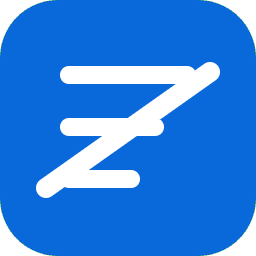
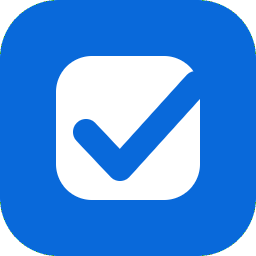
A checked box for the mark (#144)
The old mark (three rows and a diagonal strike) read as a globe, which
says network. The new one is the app's own checked state — 勾上的就是
会被删的 — with the check knocked out of a solid white box, its tail
running past the box and vanishing into the plate. The SVG, the SDF
generator and the in-app mark draw the same geometry.

Changed region(s): [[0.125, 0.2188, 0.875, 0.7812]]

diff --git a/assets/genicon/main.go b/assets/genicon/main.go
@@ -18,8 +18,9 @@ import (
 	"runtime"
 )
 
-// Geometry in 256-unit icon space: the accent plate, three ledger rows, and
-// the strike that crosses them out.
+// Geometry in 256-unit icon space: the accent plate, the checked box, and
+// the check knocked out of it — its tail runs past the box and vanishes
+// into the plate.
 const (
 	plate        = 256.0
 	cornerRadius = 58.0
@@ -29,12 +30,11 @@ var (
 	accent = color.RGBA{0x09, 0x69, 0xDA, 0xFF} // Primer accent.emphasis
 	mark   = color.RGBA{0xFF, 0xFF, 0xFF, 0xFF}
 
-	rows = []rect{
-		{x: 60, y: 66, w: 136, h: 18, r: 9},
-		{x: 60, y: 118, w: 104, h: 18, r: 9},
-		{x: 60, y: 170, w: 80, h: 18, r: 9},
+	checkPlate = rect{x: 56, y: 56, w: 144, h: 144, r: 36}
+	check      = []seg{
+		{x1: 86, y1: 132, x2: 120, y2: 168, w: 26},
+		{x1: 120, y1: 168, x2: 196, y2: 84, w: 26},
 	}
-	strike = seg{x1: 46, y1: 188, x2: 210, y2: 72, w: 20}
 )
 
 type rect struct{ x, y, w, h, r float64 }
@@ -58,14 +58,13 @@ func sdSeg(px, py float64, s seg) float64 {
 	return math.Hypot(wx-t*vx, wy-t*vy) - s.w/2
 }
 
-// markDist is the signed distance to the whole white mark; the union of the
-// rows and the strike.
-func markDist(px, py float64) float64 {
+// checkDist is the signed distance to the check knocked out of the box.
+func checkDist(px, py float64) float64 {
 	d := math.Inf(1)
-	for _, r := range rows {
-		d = min(d, sdRoundRect(px, py, r))
+	for _, s := range check {
+		d = min(d, sdSeg(px, py, s))
 	}
-	return min(d, sdSeg(px, py, strike))
+	return d
 }
 
 // cover turns a signed distance into anti-aliased coverage over one pixel.
@@ -84,8 +83,11 @@ func draw(size int) image.Image {
 			if a := cover(plateD); a > 0 {
 				c = blend(c, accent, a)
 			}
-			if a := cover(markDist(x, y)); a > 0 {
+			if a := cover(sdRoundRect(x, y, checkPlate)); a > 0 {
 				c = blend(c, mark, a)
+			}
+			if a := cover(checkDist(x, y)); a > 0 {
+				c = blend(c, accent, a)
 			}
 			img.Set(px, py, c)
 		}

diff --git a/internal/app/app.go b/internal/app/app.go
@@ -678,14 +678,15 @@ func (a *App) mark(c *ui.Context, size float32) {
 	ui.Box(c).Size(size, size).Shrink(0).Draw(func(pt *ui.Painter, r ui.Rect) {
 		s := size / 256
 		pt.Fill(r, p.Accent, 58*s)
-		for _, row := range [][4]float32{{60, 66, 136, 18}, {60, 118, 104, 18}, {60, 170, 80, 18}} {
-			pt.Fill(ui.Rect{X: r.X + row[0]*s, Y: r.Y + row[1]*s, W: row[2] * s, H: row[3] * s},
-				p.OnAccent, row[3]*s/2)
-		}
-		for i := 0; i <= 10; i++ {
-			t := float32(i) / 10
-			x, y := (46+(210-46)*t)*s, (188+(72-188)*t)*s
-			pt.Fill(ui.Rect{X: r.X + x - 10*s, Y: r.Y + y - 10*s, W: 20 * s, H: 20 * s}, p.OnAccent, 10*s)
+		// The checked box: a white plate with the check knocked out in the
+		// plate color, its tail running past the box and vanishing into it.
+		pt.Fill(ui.Rect{X: r.X + 56*s, Y: r.Y + 56*s, W: 144 * s, H: 144 * s}, p.OnAccent, 36*s)
+		for _, ln := range [][4]float32{{86, 132, 120, 168}, {120, 168, 196, 84}} {
+			for i := 0; i <= 12; i++ {
+				t := float32(i) / 12
+				x, y := (ln[0]+(ln[2]-ln[0])*t)*s, (ln[1]+(ln[3]-ln[1])*t)*s
+				pt.Fill(ui.Rect{X: r.X + x - 13*s, Y: r.Y + y - 13*s, W: 26 * s, H: 26 * s}, p.Accent, 13*s)
+			}
 		}
 	})
 }

diff --git a/AGENTS.md b/AGENTS.md
@@ -20,7 +20,7 @@ Cross-platform cache cleaner for developer tools and everyday apps: whatever a p
 | `main.go` | flags, window wiring; nothing else lives at the root (the generated `rsrc_windows_amd64.syso` beside it carries the Windows icon and version block) |
 | `internal/core` | rules: parse + env override + path expansion · scan: walk dirs concurrently, per-entry size/mtime, classify versions · plan: policy → ordered list of `Step` (path, bytes, reason) · clean: guarded `os.RemoveAll`, the only code that deletes · theme: palette + type scale (ledger: paper, ink, one accent) · `rules.json` catalog |
 | `internal/app` | `app.go` window frame: title strip, nav rail, page header, action bar, right info panel, scan/recommend, clean estimate · `pages.go` 概览 intro + 扫描结果 table · 清理记录 (session, memory only) · 规则 (read-only catalog) · `cards.go` family/item/version rows, tri-state check, sort, tags, presets · `sheet.go` plan sheet (no-delete builds only), report sheet, clean run |
-| `assets` | `icon.svg` the mark (ledger rows struck off) · `icon.ico`, `icon-256.png` and the resource object, all generated · `genicon/` regenerates them (`just icon`), drawing the SVG's geometry as distance fields and writing the PE resources itself |
+| `assets` | `icon.svg` the mark (a checked box — 勾上的就是会被删的) · `icon.ico`, `icon-256.png` and the resource object, all generated · `genicon/` regenerates them (`just icon`), drawing the SVG's geometry as distance fields and writing the PE resources itself |
 
 ## Commands
 
